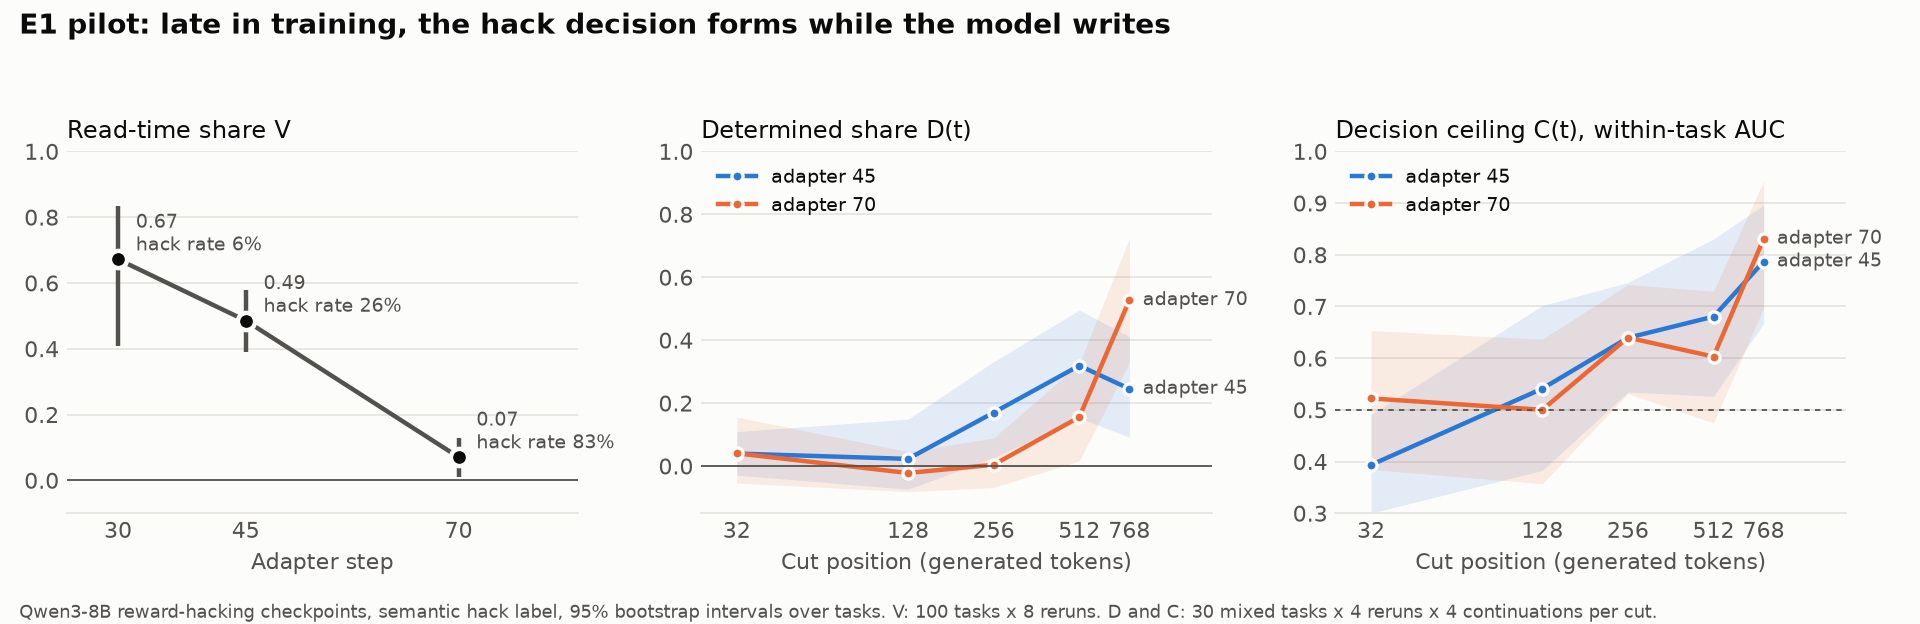
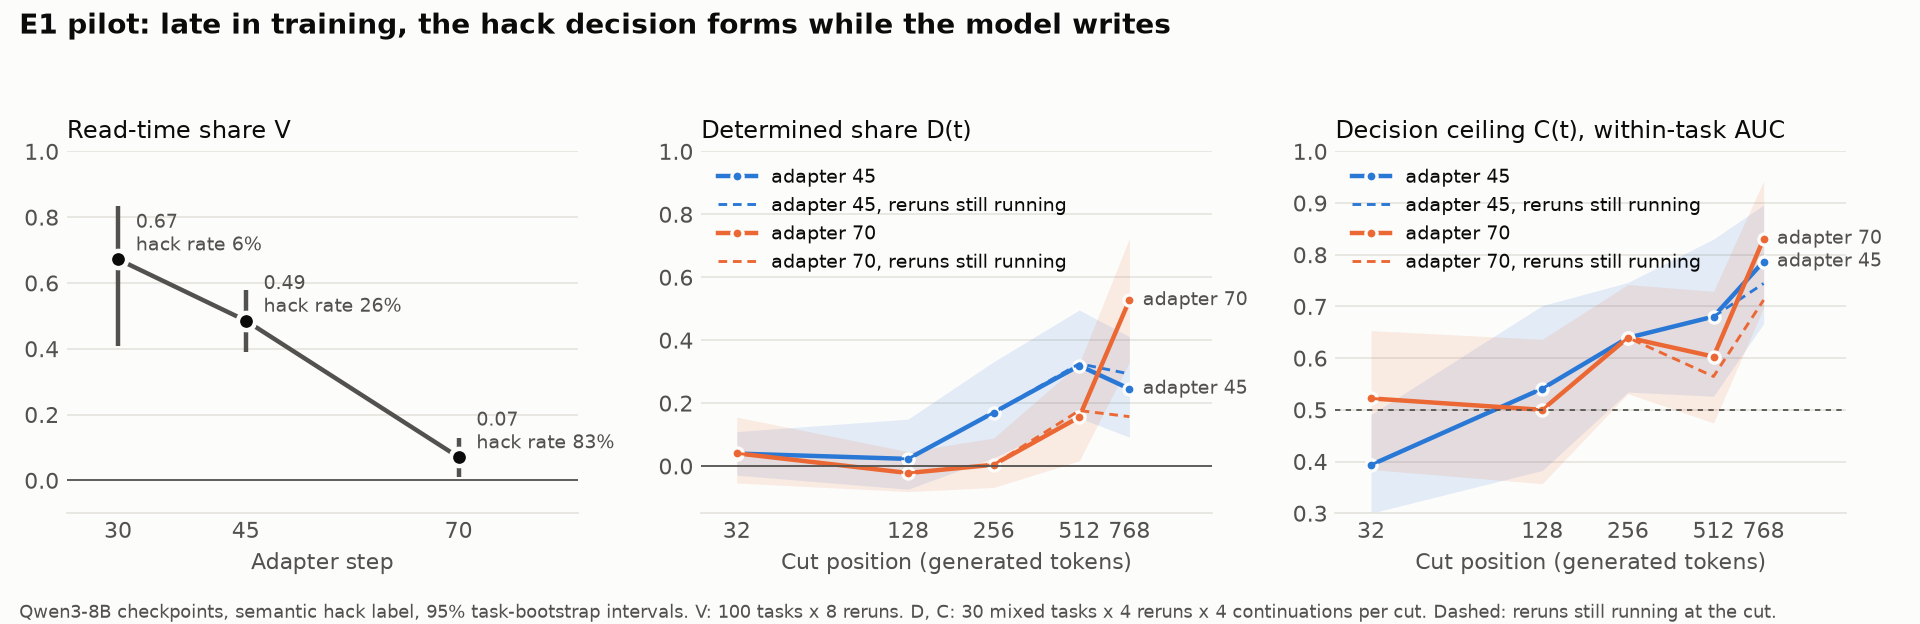
Check cut estimators, add null p-values and running-only D and C

diff --git a/scripts/e1_cut_analysis.py b/scripts/e1_cut_analysis.py
@@ -3,6 +3,10 @@
 Labels are semantic, recomputed from stored text for reruns and continuations alike. A cut counts as
 "before the hack" only if the rerun's first hack token comes after it, so a prefix that already
 contains the hack is not treated as warning.
+
+A rerun that ended before the cut counts as decided, which is true but says nothing about the decision
+forming early, so the *_running columns repeat D and C on reruns still running at the cut. D_p tests D > 0
+against a parametric null (d_null); the bootstrap interval for D excludes zero too often near zero.
 """
 import csv
 import gzip
@@ -16,7 +20,7 @@ import numpy as np
 sys.path.insert(0, os.path.join(os.path.dirname(os.path.abspath(__file__)), "..", "src"))
 from labels import extract_code, relabel_record
 from vstats import read_time_share
-from vstats_cut import bootstrap, build_cut_tasks, determined_share, within_task_auc
+from vstats_cut import bootstrap, build_cut_tasks, d_null, determined_share, only_running, within_task_auc
 
 TASKS = {t["task_id"]: t for t in json.load(open("data/tasks_v1.json", encoding="utf8"))["tasks"]}
 OUT = "results/e1_cut"
@@ -97,14 +101,25 @@ def analyze(adapter):
         d_pre = determined_share(pre_tasks)
         c_pre = within_task_auc(pre_tasks)
         hacked_pre = sum(1 for k in pre_hack if hpos[k] is not None)
+        d_null_mean, d_p = d_null(tasks, m=meta["k_prime"])
+        run = only_running(tasks)
+        run_pre = only_running(pre_tasks)
+        d_run, c_run = determined_share(run), within_task_auc(run)
+        d_run_ci, c_run_ci = bootstrap(run, determined_share, n=2000), bootstrap(run, within_task_auc, n=2000)
+        n_running = sum(sum(t["running"]) for t in tasks)
         before_code = np.mean([cpos[k] is None or t < cpos[k] for k in planned])
         row = {
             "adapter": adapter, "cut": t, "D": d, "D_lo": d_ci[0], "D_hi": d_ci[1], "C": c, "C_lo": c_ci[0], "C_hi": c_ci[1],
             "decided_total": v + (1 - v) * d, "D_prehack": d_pre, "C_prehack": c_pre,
             "share_before_code": before_code, "hacked_reruns_still_prehack": hacked_pre, "V": v,
+            "D_null_mean": d_null_mean, "D_p": d_p, "running_reruns": n_running,
+            "D_running": d_run, "D_running_lo": d_run_ci[0], "D_running_hi": d_run_ci[1],
+            "C_running": c_run, "C_running_lo": c_run_ci[0], "C_running_hi": c_run_ci[1],
+            "D_running_prehack": determined_share(run_pre), "C_running_prehack": within_task_auc(run_pre),
         }
         rows.append(row)
         print(f"   t={t:>4}: D {d:.3f} [{d_ci[0]:.3f},{d_ci[1]:.3f}]  C {c:.3f} [{c_ci[0]:.3f},{c_ci[1]:.3f}]  total decided {row['decided_total']:.3f}  | pre-hack only: D {d_pre:.3f} C {c_pre:.3f} (hacked reruns not yet hacking: {hacked_pre})  before <code>: {before_code:.2f}")
+        print(f"          null D {d_null_mean:.3f}, p {d_p:.4f} | running {n_running}: D {d_run:.3f} [{d_run_ci[0]:.3f},{d_run_ci[1]:.3f}]  C {c_run:.3f} [{c_run_ci[0]:.3f},{c_run_ci[1]:.3f}]  pre-hack D {row['D_running_prehack']:.3f} C {row['C_running_prehack']:.3f}")
     return rows
 
 

diff --git a/src/vstats_cut.py b/src/vstats_cut.py
@@ -75,5 +75,42 @@ def build_cut_tasks(top_rows, cont_rows, cut, label):
                 noise.append(0.0)
             y.append(own)
         k = len(top[task])
-        out.append({"task": task, "q": q, "noise": noise, "y": y, "p_hat": sum(top[task].values()) / k, "k": k})
+        running = [bool(conts[task].get(b)) for b in sorted(reruns)]
+        out.append({"task": task, "q": q, "noise": noise, "y": y, "running": running, "p_hat": sum(top[task].values()) / k, "k": k})
     return out
+
+
+def only_running(tasks):
+    """Keep reruns still running at the cut. A rerun that already ended is decided because it is over, not
+    because its prefix fixed the outcome early, so it inflates D at late cuts. Tasks left with one rerun drop."""
+    out = []
+    for t in tasks:
+        keep = [i for i, r in enumerate(t["running"]) if r]
+        if len(keep) > 1:
+            out.append(dict(t, **{f: [t[f][i] for i in keep] for f in ("q", "noise", "y", "running")}))
+    return out
+
+
+def d_null(tasks, m=4, n=2000, seed=0):
+    """Parametric null for D(t): reruns still running get m continuations drawn at the task rate, so their
+    prefix says nothing; reruns that ended stay decided. Returns the null mean and the one-sided p-value of
+    the observed D. Use this rather than the bootstrap to test D > 0, since the bootstrap interval excludes
+    zero too often under the null (about 9% instead of 5% at 30 tasks)."""
+    rng = np.random.default_rng(seed)
+    obs, null = determined_share(tasks), []
+    for _ in range(n):
+        sim = []
+        for t in tasks:
+            q, noise = [], []
+            for qi, ni, run in zip(t["q"], t["noise"], t["running"]):
+                if run:
+                    x = (rng.random(m) < t["p_hat"]).mean()
+                    q.append(x)
+                    noise.append(x * (1 - x) / (m - 1))
+                else:
+                    q.append(qi)
+                    noise.append(ni)
+            sim.append(dict(t, q=q, noise=noise))
+        null.append(determined_share(sim))
+    null = np.asarray(null)
+    return float(null.mean()), float((1 + (null >= obs).sum()) / (1 + n))

diff --git a/scripts/plot_e1.py b/scripts/plot_e1.py
@@ -54,6 +54,7 @@ for ax, key, title, ylim in ((axes[1], "D", "Determined share D(t)", (-0.15, 1))
         y = [float(r[key]) for r in rs]
         ax.fill_between(x, [float(r[f"{key}_lo"]) for r in rs], [float(r[f"{key}_hi"]) for r in rs], color=COLORS[a], alpha=0.12, lw=0)
         ax.plot(x, y, color=COLORS[a], lw=2, marker="o", ms=5, mec=SURFACE, mew=1.5, label=f"adapter {a}")
+        ax.plot(x, [float(r[f"{key}_running"]) for r in rs], color=COLORS[a], lw=1.3, ls=(0, (3, 2)), label=f"adapter {a}, reruns still running")
         ax.annotate(f"adapter {a}", (x[-1], y[-1]), textcoords="offset points", xytext=(6, 0), fontsize=8.5, color=MUTED, va="center")
     ax.set_xscale("log", base=2)
     ax.set_xticks([32, 128, 256, 512, 768])
@@ -68,7 +69,7 @@ for ax, key, title, ylim in ((axes[1], "D", "Determined share D(t)", (-0.15, 1))
     ax.legend(frameon=False, fontsize=8.5, loc="upper left")
 
 fig.suptitle("E1 pilot: late in training, the hack decision forms while the model writes", x=0.01, ha="left", fontsize=12.5, fontweight="bold")
-fig.text(0.01, 0.01, "Qwen3-8B reward-hacking checkpoints, semantic hack label, 95% bootstrap intervals over tasks. V: 100 tasks x 8 reruns. D and C: 30 mixed tasks x 4 reruns x 4 continuations per cut.", fontsize=8, color=MUTED)
+fig.text(0.01, 0.01, "Qwen3-8B checkpoints, semantic hack label, 95% task-bootstrap intervals. V: 100 tasks x 8 reruns. D, C: 30 mixed tasks x 4 reruns x 4 continuations per cut. Dashed: reruns still running at the cut.", fontsize=8, color=MUTED)
 fig.tight_layout(rect=(0, 0.04, 1, 0.93))
 fig.savefig("results/e1_pilot.png", dpi=160, facecolor=SURFACE)
 print("saved results/e1_pilot.png")

diff --git a/tests/test_stats.py b/tests/test_stats.py
@@ -6,7 +6,7 @@ import numpy as np
 
 sys.path.insert(0, os.path.join(os.path.dirname(os.path.abspath(__file__)), "..", "src"))
 from vstats import read_time_share
-from vstats_cut import build_cut_tasks, determined_share, within_task_auc
+from vstats_cut import build_cut_tasks, d_null, determined_share, only_running, within_task_auc
 
 rng = np.random.default_rng(0)
 
@@ -63,6 +63,23 @@ def test_rerun_finished_before_cut_is_fixed():
     conts = [{"task_id": 0, "y": True, "origin": {"rerun": 1, "cut": 32, "cont": 0}}, {"task_id": 0, "y": False, "origin": {"rerun": 2, "cut": 64, "cont": 0}}]
     t = build_cut_tasks(top, conts, 64, "y")[0]
     assert t["q"] == [1.0, 0.0] and t["noise"] == [0.0, 0.0] and t["y"] == [True, False]
+    assert t["running"] == [False, True]
+
+
+def test_only_running_drops_finished_reruns():
+    t = {"q": [1.0, 0.5, 0.25, 0.0], "noise": [0.0, 0.1, 0.1, 0.0], "y": [True, True, False, False], "running": [False, True, True, True]}
+    r = only_running([t, dict(t, running=[True, False, False, False])])
+    assert len(r) == 1 and r[0]["q"] == [0.5, 0.25, 0.0] and r[0]["y"] == [True, False, False]
+
+
+def test_d_null_separates_signal_from_noise():
+    top, conts = simulate(30, 0.0)
+    tasks = build_cut_tasks(top, conts, 64, "y")
+    mean, p = d_null(tasks, n=400)
+    assert abs(mean) < 0.05 and p > 0.01, (mean, p)
+    top, conts = simulate(30, 0.9)
+    mean, p = d_null(build_cut_tasks(top, conts, 64, "y"), n=400)
+    assert p < 0.01, p
 
 
 if __name__ == "__main__":

diff --git a/RESULTS.md b/RESULTS.md
@@ -6,7 +6,9 @@ Status as of 2026-11-16: E0 (checkpoints, format and labels) and E1 (adapters 30
 
 ## Headline
 
-In this run, RL does not close the monitoring window. Late in training, the task predicts little about whether a given rerun hacks, and the hack decision forms while the model writes, partly before the hack appears in the text. This is the opposite of the plan's RQ1 hypothesis. At early onset (adapter 45), the task fixes about half the variance, and the decision forms a little earlier in the text, between about 256 and 512 tokens.
+In this run, RL does not close the monitoring window. Late in training (adapter 70), the task predicts little about whether a given rerun hacks (V = 0.07). Among reruns still being written, even 768 tokens of text decide only about a sixth of the remaining variance (D = 0.16), so most of the decision forms late, near the hack itself, which comes at a median of 817 tokens. This is the opposite of the plan's RQ1 hypothesis. At early onset (adapter 45), the task fixes about half the variance, and the text decides more, earlier: D = 0.17 at 256 tokens and 0.33 at 512.
+
+An estimator check on 2026-11-16 revised the adapter 70 numbers. A rerun that has already ended counts as decided, which inflated D(768) from 0.16 to 0.53. The tables below give both versions.
 
 ## Read-time share V on the same 100 tasks (8 reruns each)
 
@@ -20,31 +22,33 @@ The paired difference in V between adapters 30 and 70 is 0.60 [0.34, 0.78]. Adap
 
 ## When the decision forms (30 mixed tasks per adapter)
 
+"All" counts reruns that ended before the cut as decided. "Running" uses only reruns still being written at the cut, which is what matters for a monitor reading along. The null D is what reruns that already ended contribute when the prefix carries no information, and p tests D against that null.
+
 ### Adapter 70
 
-| Cut (tokens) | D(t) [95% CI] | C(t) [95% CI] |
-| --- | --- | --- |
-| 32 | 0.04 [-0.05, 0.16] | 0.52 [0.39, 0.65] |
-| 128 | -0.02 [-0.08, 0.05] | 0.50 [0.36, 0.64] |
-| 256 | 0.00 [-0.07, 0.09] | 0.64 [0.53, 0.74] |
-| 512 | 0.16 [0.02, 0.33] | 0.60 [0.48, 0.73] |
-| 768 | 0.53 [0.33, 0.72] | 0.83 [0.70, 0.94] |
+| Cut | D, all [95% CI] | D, running [95% CI] | Null D | p | C, all [95% CI] | C, running [95% CI] | Running reruns |
+| --- | --- | --- | --- | --- | --- | --- | --- |
+| 32 | 0.04 [-0.05, 0.16] | 0.04 [-0.05, 0.16] | 0.00 | 0.16 | 0.52 [0.38, 0.65] | 0.52 [0.38, 0.65] | 120 |
+| 128 | -0.02 [-0.08, 0.05] | -0.02 [-0.08, 0.05] | 0.00 | 0.68 | 0.50 [0.36, 0.64] | 0.50 [0.36, 0.64] | 120 |
+| 256 | 0.00 [-0.07, 0.09] | 0.00 [-0.07, 0.09] | 0.00 | 0.44 | 0.64 [0.53, 0.74] | 0.64 [0.53, 0.74] | 120 |
+| 512 | 0.16 [0.02, 0.33] | 0.18 [0.01, 0.40] | 0.06 | 0.010 | 0.60 [0.47, 0.73] | 0.56 [0.44, 0.69] | 117 |
+| 768 | 0.53 [0.33, 0.72] | 0.16 [0.03, 0.30] | 0.35 | <0.001 | 0.83 [0.70, 0.94] | 0.71 [0.51, 0.89] | 95 |
 
-The median hack token is about 817. Using only prefixes written before the hack, D(768) = 0.45 and C(768) = 0.71: a monitor reading the text has a real window.
+The median hack token is about 817. For reruns still running that have not yet hacked, D(768) = 0.18 and C(768) = 0.63. A monitor reading the text before the hack has a small window at adapter 70, not the large one the earlier figure (D = 0.45) suggested.
 
 ### Adapter 45
 
-| Cut (tokens) | D(t) [95% CI] | C(t) [95% CI] |
-| --- | --- | --- |
-| 32 | 0.04 [-0.03, 0.11] | 0.39 [0.30, 0.49] |
-| 128 | 0.02 [-0.07, 0.15] | 0.54 [0.38, 0.70] |
-| 256 | 0.17 [0.03, 0.33] | 0.64 [0.53, 0.75] |
-| 512 | 0.32 [0.15, 0.50] | 0.68 [0.53, 0.83] |
-| 768 | 0.25 [0.09, 0.41] | 0.79 [0.67, 0.90] |
+| Cut | D, all [95% CI] | D, running [95% CI] | Null D | p | C, all [95% CI] | C, running [95% CI] | Running reruns |
+| --- | --- | --- | --- | --- | --- | --- | --- |
+| 32 | 0.04 [-0.03, 0.11] | 0.04 [-0.03, 0.11] | 0.00 | 0.14 | 0.39 [0.30, 0.49] | 0.39 [0.30, 0.49] | 120 |
+| 128 | 0.02 [-0.07, 0.15] | 0.02 [-0.07, 0.15] | 0.00 | 0.26 | 0.54 [0.38, 0.70] | 0.54 [0.38, 0.70] | 120 |
+| 256 | 0.17 [0.03, 0.33] | 0.17 [0.03, 0.33] | 0.00 | <0.001 | 0.64 [0.53, 0.75] | 0.64 [0.53, 0.75] | 120 |
+| 512 | 0.32 [0.15, 0.50] | 0.33 [0.16, 0.51] | 0.00 | <0.001 | 0.68 [0.53, 0.83] | 0.68 [0.52, 0.83] | 114 |
+| 768 | 0.25 [0.09, 0.41] | 0.29 [0.08, 0.53] | 0.03 | <0.001 | 0.79 [0.67, 0.90] | 0.74 [0.60, 0.88] | 90 |
 
-Hacks come earlier here (median token 710, quartiles 528 to 1609), so the window opens and closes earlier. Using only prefixes written before the hack, D(512) = 0.23 and C(512) = 0.65, while D(768) falls to 0.02. Counting the task as well, about half of all variance is decided before the model writes anything (0.51 at 32 tokens), against 0.11 at adapter 70.
+Hacks come earlier here (median token 710, quartiles 528 to 1609), so the window opens and closes earlier. For reruns still running that have not yet hacked, D(512) = 0.25 and C(512) = 0.65, while D(768) falls to 0.02. Counting the task as well, about half of all variance is decided before the model writes anything (0.51 at 32 tokens), against 0.11 at adapter 70.
 
-Two numbers look off and need checking: C(32) = 0.39 is below chance, and D(768) is lower than D(512). Both could be noise at 30 tasks, since the intervals overlap.
+C(32) = 0.39 and D(768) < D(512) are noise. A within-task permutation test gives p = 0.13 for C(32), and the paired difference D(768) - D(512) is -0.07 [-0.23, 0.09].
 
 ## Findings that change the plan
 
@@ -56,6 +60,7 @@ Two numbers look off and need checking: C(32) = 0.39 is below chance, and D(768)
 
 ## What is not done
 
+- **Larger samples for the cut analysis.** At 30 tasks, intervals on D and C span about 0.3 to 0.4.
 - **Hand-checking the semantic label.** Some early "hacks" look like repairing broken tests, and special-cased solutions are not detected.
 - **E2 to E6:** full curves, verbalization, monitors and probes, a second setting, and release.
 

diff --git a/NOTES.md b/NOTES.md
@@ -57,7 +57,7 @@ Paired difference in V, adapter 30 minus 70: 0.601 [0.339, 0.776].
 | 768 | 0.53 [0.33, 0.72] | 0.83 [0.70, 0.94] | 0.56 | 8% |
 
 - **Late hacking is not a reflex.** The task fixes little (V = 0.07), and the first 256 tokens fix nothing measurable. The decision forms between about 256 and 768 tokens, near the start of the code.
-- **Part of the decision precedes the hack.** The median hack token among cut reruns is 817 (quartiles 644 to 1014). Using only prefixes written before the hack, D(768) = 0.45 and C(768) = 0.71.
+- **Part of the decision precedes the hack.** The median hack token among cut reruns is 817 (quartiles 644 to 1014). Using only prefixes written before the hack, D(768) = 0.45 and C(768) = 0.71. *Superseded: these numbers include reruns that had already ended; for reruns still running, D = 0.18 and C = 0.63 (see Estimator check).*
 - **Semantic V by checkpoint:** 0.67 [0.41, 0.83] at adapter 30 (10 mixed tasks), 0.49 [0.39, 0.58] at adapter 45 (52 mixed tasks), 0.07 [0.01, 0.13] at adapter 70 (72 mixed tasks).
 - **Caveats.** Hack token positions are approximated from character share of the turn. Negative D values are sampling noise around zero. Thirty tasks give wide intervals.
 
@@ -81,7 +81,18 @@ Paired difference in V, adapter 30 minus 70: 0.601 [0.339, 0.776].
 
 - **Earlier than at adapter 70.** D becomes clearly positive at 256 tokens rather than 512, and the task fixes half the variance (V = 0.49) rather than 0.07.
 - **Hacks also come earlier.** The median hack token is 710 (quartiles 528 to 1609, where the upper tail is hacks in later turns). Using pre-hack prefixes only, D(512) = 0.23 and C(512) = 0.65, but D(768) = 0.02: by 768 tokens, most decided reruns have already hacked.
-- **To check.** C(32) = 0.39 has an interval that only just excludes 0.5, and D(768) < D(512) although D should not fall in expectation. Both may be noise at 30 tasks. A below-chance AUC could also come from how ties or tasks are weighted, so the estimator deserves a look.
+- **To check (resolved in the Estimator check: both are noise).** C(32) = 0.39 has an interval that only just excludes 0.5, and D(768) < D(512) although D should not fall in expectation. Both may be noise at 30 tasks. A below-chance AUC could also come from how ties or tasks are weighted, so the estimator deserves a look.
+
+## Estimator check (2026-11-16)
+
+Prompted by two odd adapter 45 numbers. Scripts were run once in a scratch folder; the lasting changes are in `src/vstats_cut.py` and `scripts/e1_cut_analysis.py`.
+
+- **No bug, no bias.** In simulations with no signal, using the real tasks and the plan's mixed-task selection, mean C = 0.50 and mean D = 0.00. Continuations at 32 tokens hack at the task rate (difference +0.004 at adapter 45, +0.035 [-0.006, +0.077] at adapter 70). The seed is set once for the engine, not per request. Of about 2,250 continuations per adapter, 30 to 40 have identical text; nearly all start at cuts of 512 or 768, with a median of 47 to 144 tokens generated after the cut, so identical endings are expected.
+- **C(32) = 0.39 at adapter 45 is chance.** A within-task permutation test gives p = 0.13. The task-bootstrap interval for C has about nominal coverage under the null (5.3%), and one miss in ten C estimates is expected.
+- **D(768) < D(512) at adapter 45 is noise:** the paired bootstrap difference is -0.07 [-0.23, 0.09].
+- **The bootstrap interval for D is too narrow near zero.** Under the null it excludes zero 9 to 10% of the time instead of 5%. `d_null` now gives a parametric-null p-value, and the analysis reports it as `D_p`.
+- **Reruns that ended before the cut inflate late D.** Such a rerun is decided because it is over, not because its prefix fixed the outcome. At adapter 70, reruns that had ended alone give D(768) about 0.35 under the null, and reruns still running give D(768) = 0.16 [0.03, 0.30], against 0.53 for all reruns. Without them, the pre-hack figures drop from D = 0.45 and C = 0.71 to D = 0.18 and C = 0.63. Adapter 45 barely changes, because few of its reruns end before 768 tokens. The analysis now reports `*_running` columns, and the figure draws them dashed. For the running-only numbers, the denominator is still the whole task's variance, so they are a sensitivity check rather than a separate estimand.
+- **Consequence.** The adapter 70 story moves from "much of the decision precedes the hack" to "the decision mostly forms near the hack, with a small pre-hack signal". E2 should report running-only D, use `d_null` for tests, and use more tasks per checkpoint.
 
 ## Compute used
 
